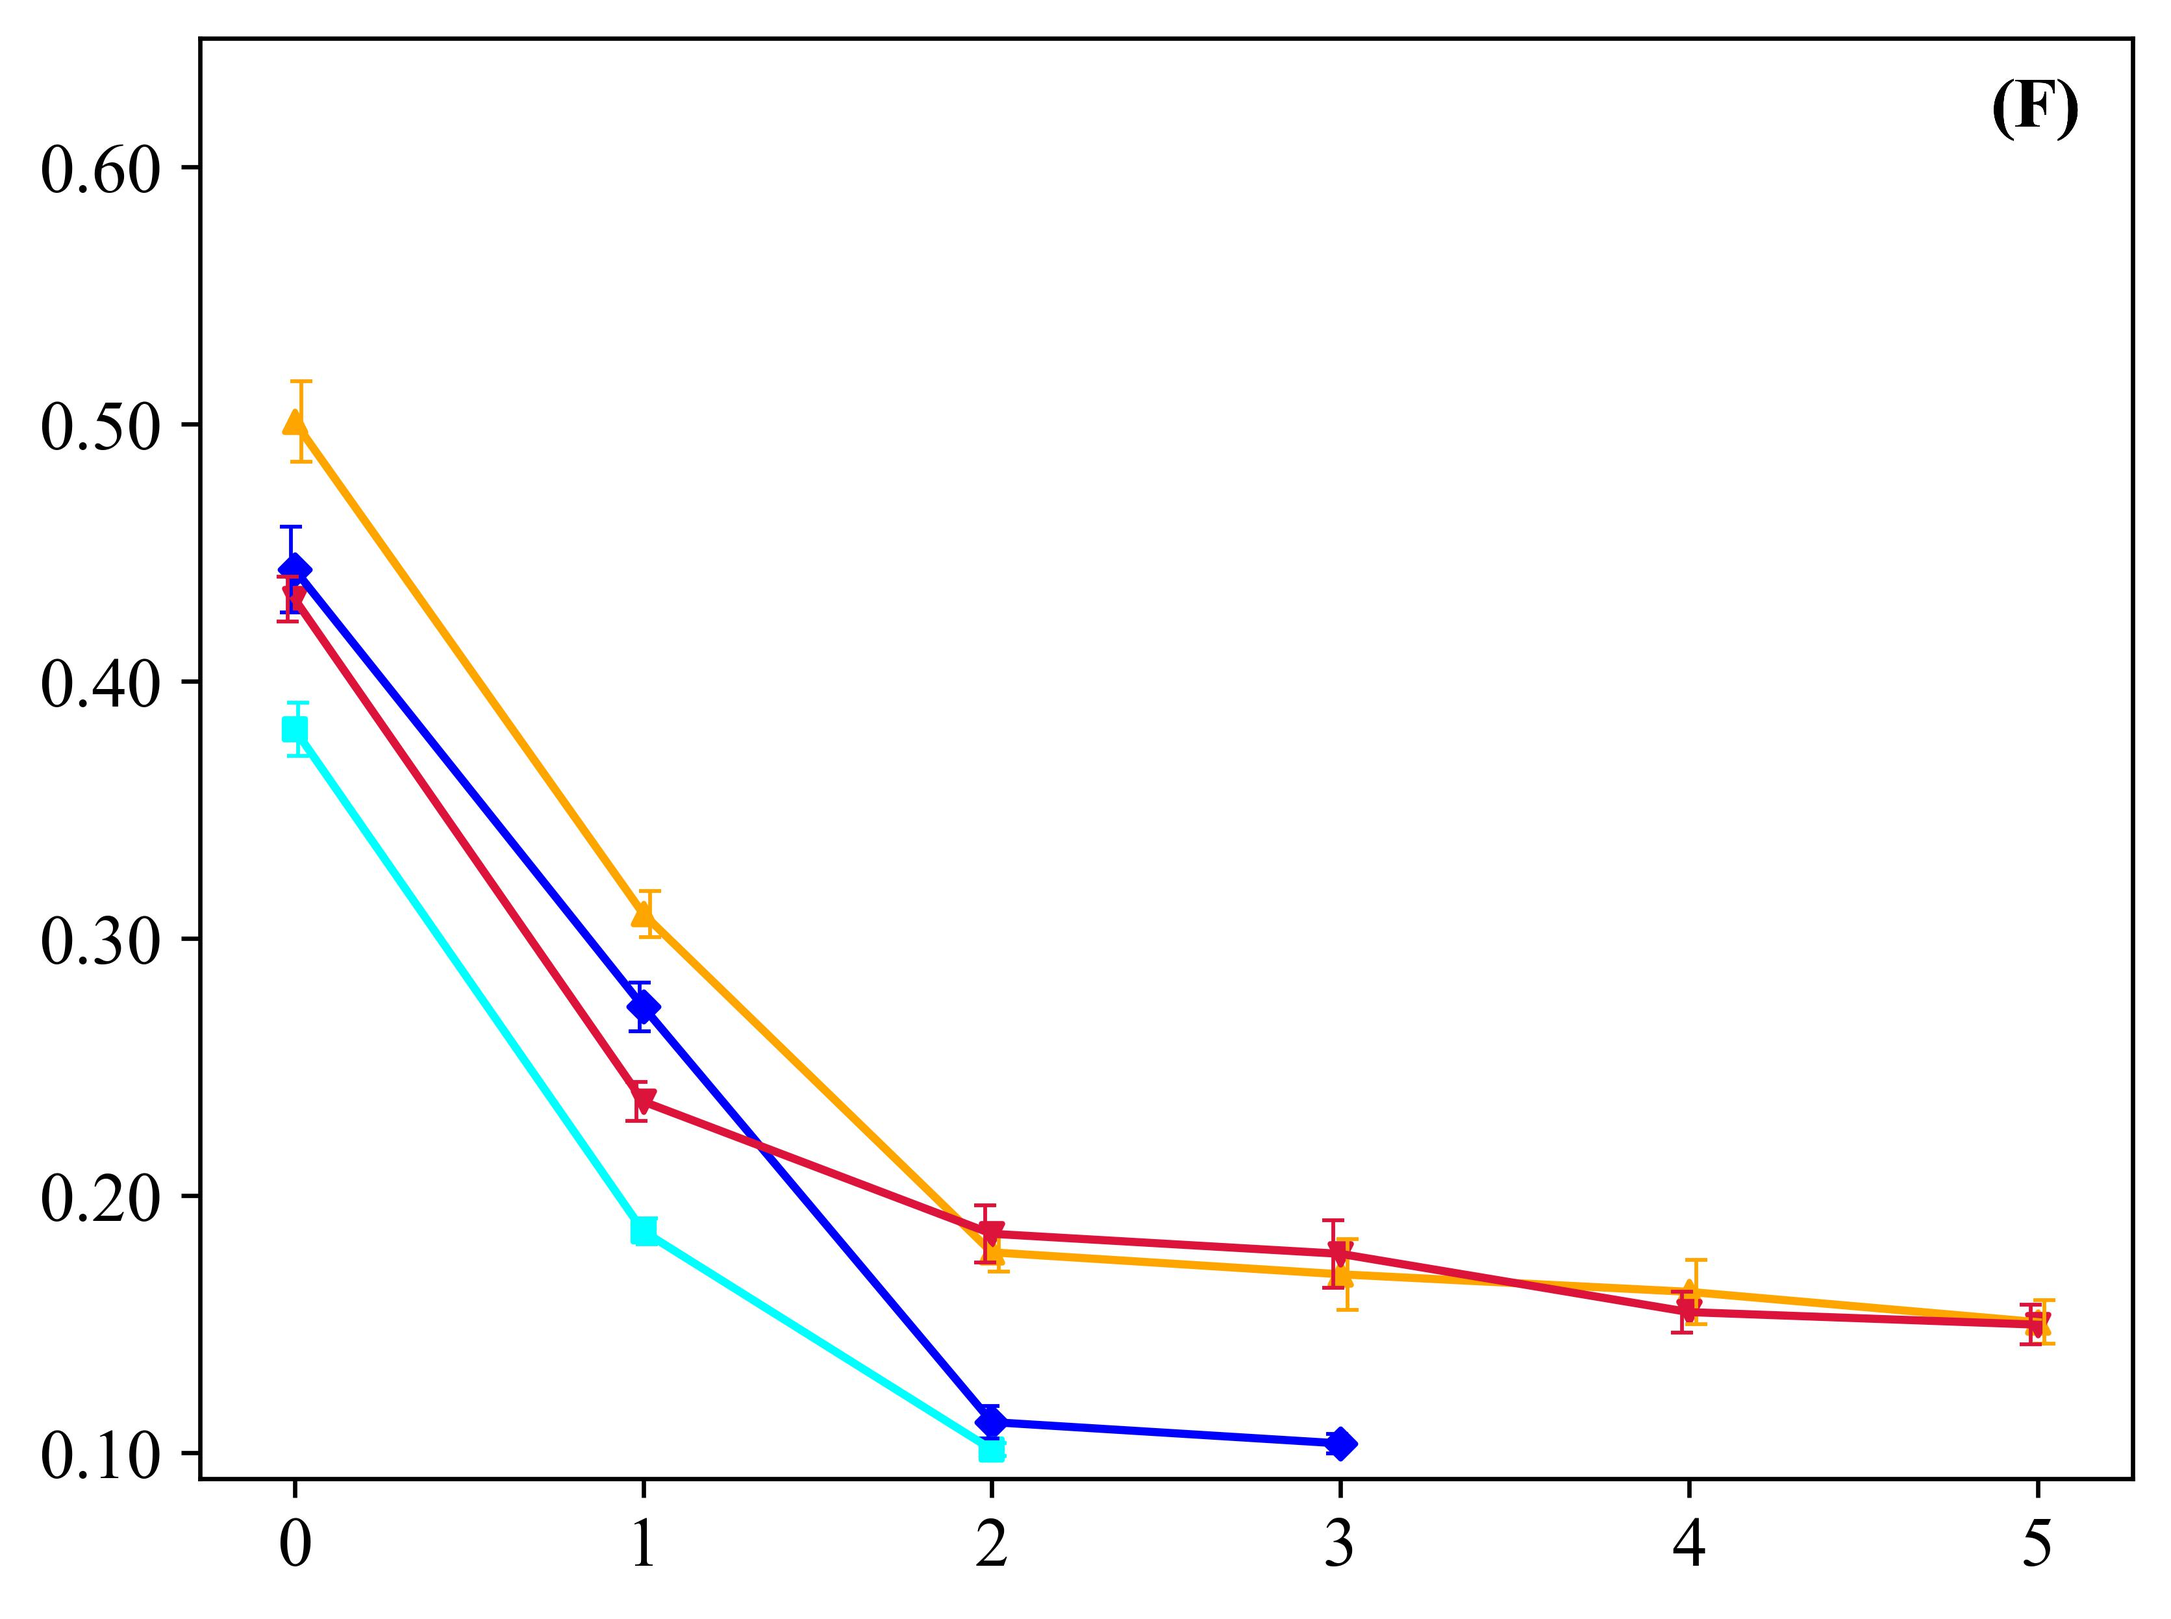
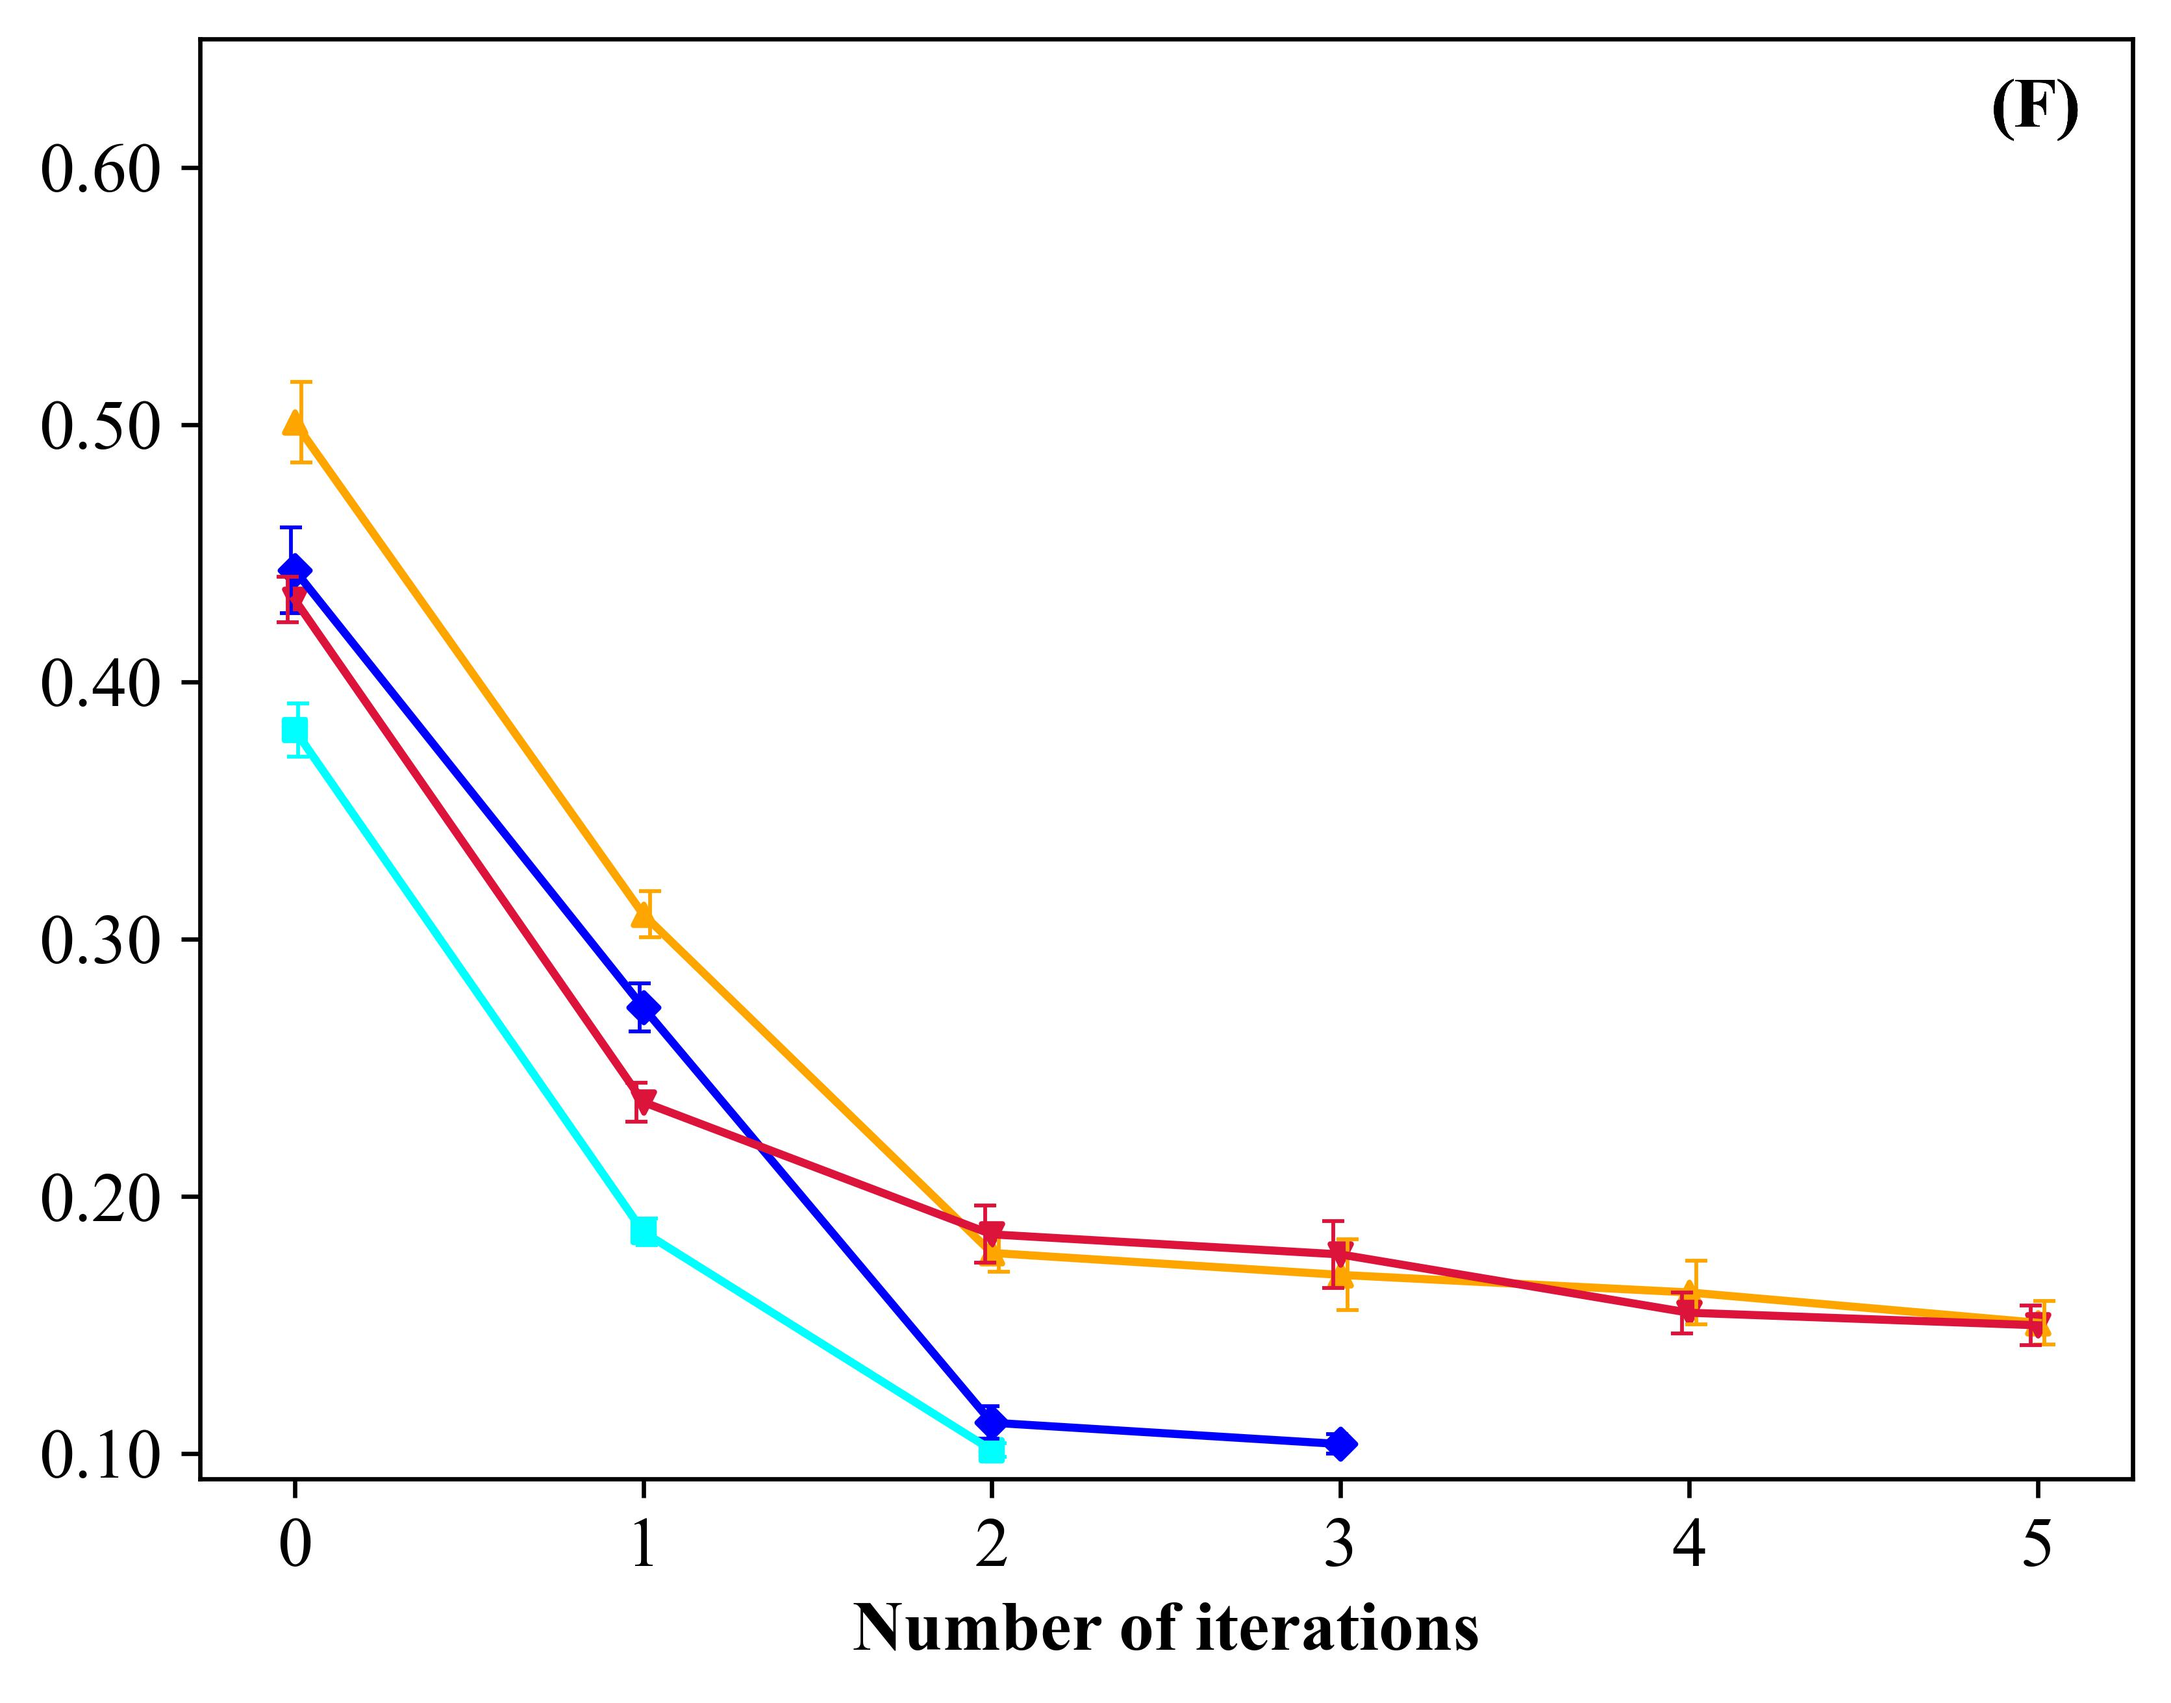
.

diff --git a/experiments/plot_unique_labels.py b/experiments/plot_unique_labels.py
@@ -1,0 +1,69 @@
+import os, sys
+path = os.path.dirname(os.path.realpath(__file__)).split("\\")
+print("\\".join(path[:-1]))
+sys.path.append("\\".join(path[:-1]))
+from copy import deepcopy
+import pickle
+import itertools, collections
+from tqdm import tqdm
+
+import time
+import numpy as np
+
+from molecular_graph.smiles import smiles2graph
+from data.data import ReducedData, stratified_sampling
+from utils.criterion import RMSD
+from wl.labelling_graph import (WLSubtree, WLEdge, WLShortestPath, 
+    GraphVectorizer, GraphHashVectorizer)
+
+from pipeline import data_splitter, graph_getter, Pipeline, RMSD, model_getter
+
+from utils.plot_utility_v3 import scatter_plot
+
+random_state = 2020
+data_generator = ReducedData(
+    N = 100, seed = random_state, path = "data",
+    pah_only = False, subst_only = False)
+
+elec_prop = ["BG"]
+data = data_generator()
+
+all_smiles = list(data.loc[:,"smiles"])
+all_graphs = []
+for smiles in all_smiles:
+    all_graphs.append(
+        smiles2graph(smiles,sp = True))
+
+num_unique_label = {}
+methods = [WLSubtree, WLEdge, WLShortestPath]
+for l,label_method in enumerate(["WL-A","WL-AB","WL-AD"]):
+    foo = []
+    for i in range(0,6):
+
+        graph_vectorizer = GraphVectorizer(
+            label_method = methods[l], 
+            num_iter = i, smiles = False)
+
+        graph_vectorizer.fit(all_graphs)
+
+        foo.append(len(graph_vectorizer.unique_labels))
+
+    num_unique_label.update({
+        label_method:np.array(foo)})
+
+plot = scatter_plot()
+for method,n_labels in num_unique_label.items():
+    plot.add_plot(
+        range(len(n_labels)),
+        np.log10(n_labels),
+        label = method,
+        plot_line = True,
+        xticks_format = 0,
+        #yticks_format = 0
+        xlabel = "Number of iterations",
+        ylabel = "Base 10 logarithm of the number of unique labels"
+        )
+
+plot.ax.legend()
+plot.save_fig("num_unique_labels.png",dpi =600)
+

diff --git a/experiments/plot_vs_radius.py b/experiments/plot_vs_radius.py
@@ -81,7 +81,7 @@ for d,data in enumerate(["mixed","pah","subst"]):
                 line_color = color[j],
                 xticks_format = 0 ,#  if e == 2 else -1,
                 x_major_tick = 1,
-                xlabel = "Fingerprint radius" if e == 2 else None,
+                xlabel = "Fingerprint radius" if d == 2 else None,
                 ylabel = "RMSD for {} (eV)".format(elec_prop),
                 ylim = plot_lim_data[data][e]
                 )

diff --git a/experiments/plot_vs_num_iter.py b/experiments/plot_vs_num_iter.py
@@ -86,7 +86,7 @@ for d,data in enumerate(["mixed","pah","subst"]):
                 xticks_format = 0, # if e == 2 else -1,
                 x_major_tick = 1,
                 ylim = plot_lim_data[data][e],
-                xlabel = "Number of iterations" if e == 2 else None,
+                xlabel = "Number of iterations" if d == 2 else None,
                 #ylabel = "RMSD for {} (eV)".format(elec_prop),
                 )
 

diff --git a/error_analysis.py b/error_analysis.py
@@ -82,11 +82,12 @@ for i in tqdm(range(len(data))):
     test_Y_hat = model.predict(test_X)
 
     rmsd = np.sqrt(
-        (test_Y_hat[0][0] - all_Y[i])**2)
+        (test_Y_hat[0][0] - all_Y[i])**2
+        )
     LOO_error.append(rmsd)
 
 with open("LOO_error.pkl","wb") as handle:
     pickle.dump({
-        "smiles_list":smiles_list,
+        "smiles_list":all_smiles,
         "LOO_error":LOO_error
         }, handle)
